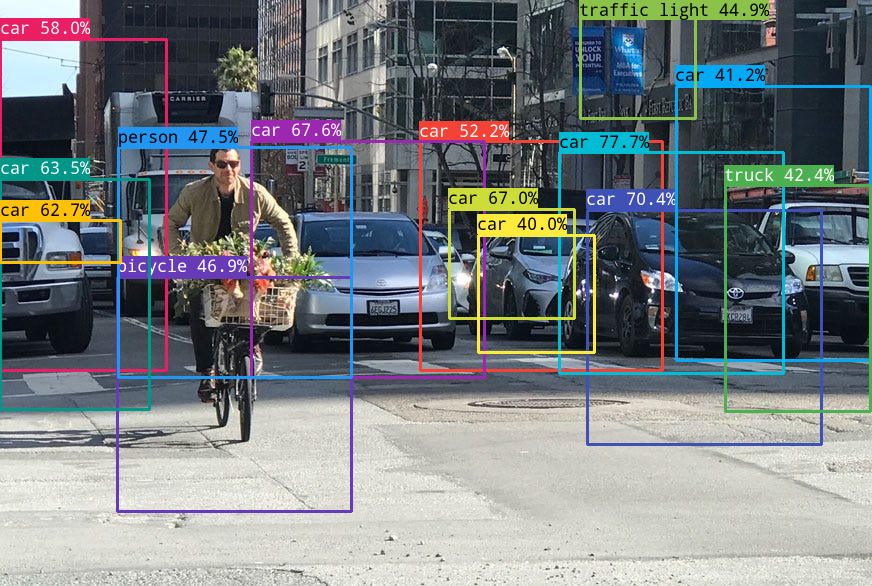
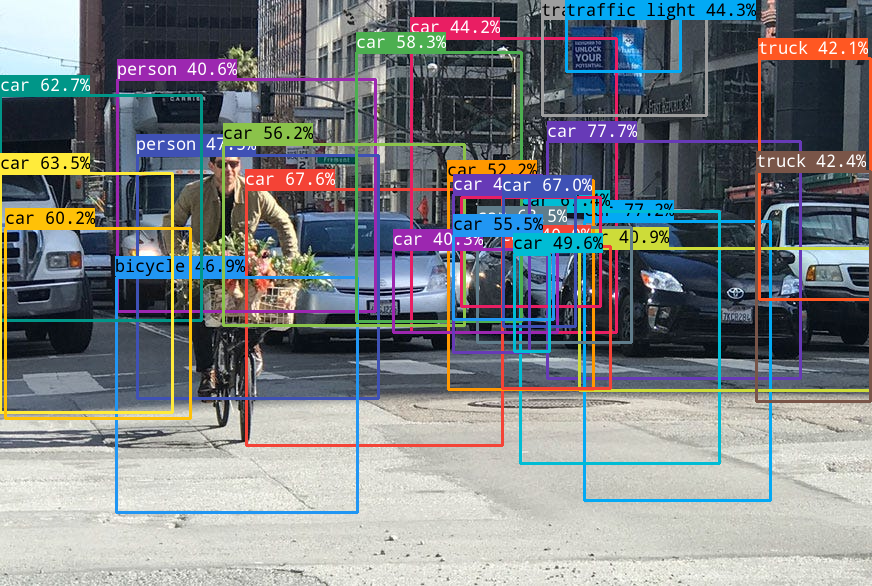
Fix ptr location

Changed region(s): [[0.0, 0.0, 1.0, 0.8908]]

diff --git a/lib/Nanop.cpp b/lib/Nanop.cpp
@@ -129,7 +129,7 @@ static void generate_proposals(ncnn::Mat& cls_pred, ncnn::Mat& dis_pred, int str
 
             if (max_score >= prob_threshold)
             {
-                ncnn::Mat bbox_pred(reg_max_1, 4, (void*) dis_pred.row(j) + hstep_dis);
+                ncnn::Mat bbox_pred(reg_max_1, 4, (void*) dis_pred.row(j) + (i * hstep_dis));
                 // std::cout << "max_score " << max_score << std::endl;
                 // std::cout << "max_label " << max_label << std::endl;
                 {
@@ -333,7 +333,7 @@ int NanodetP::detect(const cv::Mat& rgb, std::vector<Object>& objects, float pro
         // std::cout << "dis32: h " << dis_pred.h << std::endl;
         // std::cout << "dis32: w " << dis_pred.w << std::endl;
         std::vector<Object> obj32;
-        generate_proposals(cls_pred, dis_pred, 16, in_pad, prob_threshold, obj32);
+        generate_proposals(cls_pred, dis_pred, 32, in_pad, prob_threshold, obj32);
         proposals.insert(proposals.end(), obj32.begin(), obj32.end());
         
     }
@@ -354,7 +354,7 @@ int NanodetP::detect(const cv::Mat& rgb, std::vector<Object>& objects, float pro
         // std::cout << "dis64: h " << dis_pred.h << std::endl;
         // std::cout << "dis64: w " << dis_pred.w << std::endl;
         std::vector<Object> obj64;
-        generate_proposals(cls_pred, dis_pred, 16, in_pad, prob_threshold, obj64);
+        generate_proposals(cls_pred, dis_pred, 64, in_pad, prob_threshold, obj64);
         proposals.insert(proposals.end(), obj64.begin(), obj64.end());
     }
 
